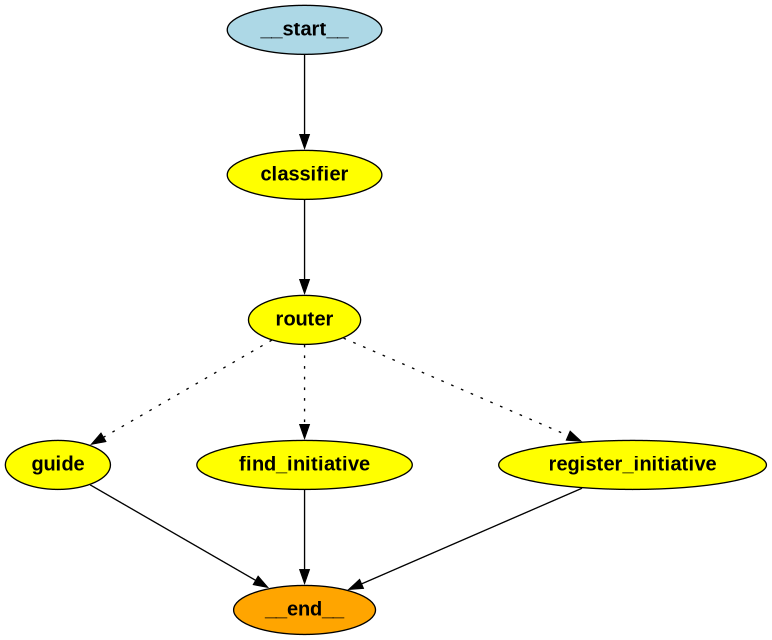
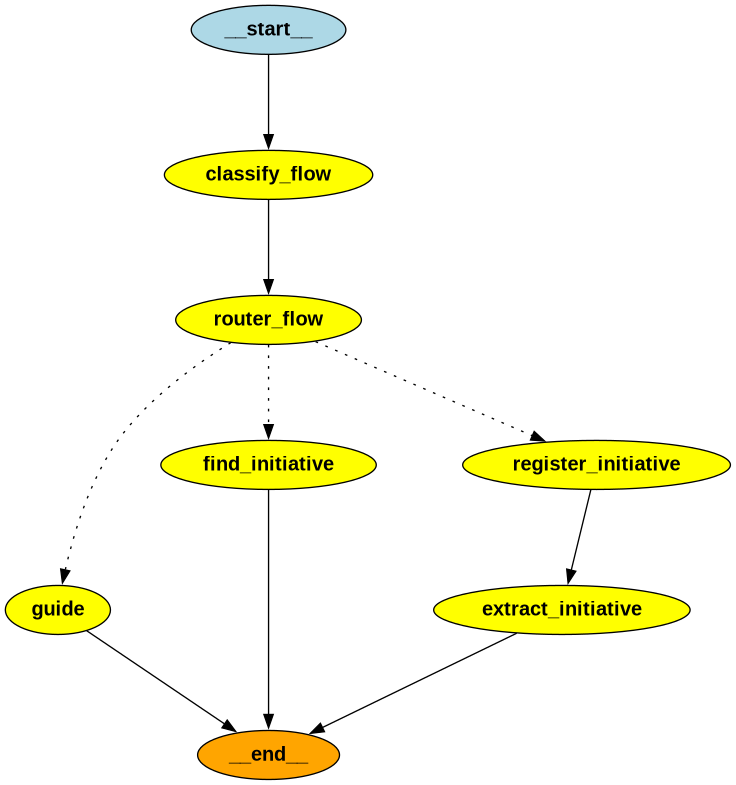
chore: organize prompts structure

diff --git a/agent/src/nodes.py b/agent/src/nodes.py
@@ -1,4 +1,4 @@
-from src.schemas import State, FlowClassifier
+from src.schemas import State, FlowClassifier, Initiative
 from src.llms import default_llm
 
 from langchain_core.messages import AIMessage
@@ -6,25 +6,27 @@ from langchain_core.messages import AIMessage
 import logging
 
 
+PROMPTS_DIR = "prompts"
+
+
 def classify_flow(state: State):
     last_msg = state["messages"][-1]
     classifier_llm = default_llm.with_structured_output(FlowClassifier)
+    flow_type = state.get("flow_type", None)
+
+    # If the user is already in a flow, keep it
+    if flow_type in ["consultar", "registrar"]:
+        return {"flow_type": flow_type}
 
     try:
+        with open(f"{PROMPTS_DIR}/classify_flow.md", "r", encoding="utf-8") as f:
+            prompt_content = f.read()
+
         result = classifier_llm.invoke(
             [
                 {
                     "role": "system",
-                    "content": (
-                        """
-                        Você é um classificador.
-                        Sua tarefa é analisar a mensagem do usuário e o tipo seguindo o formato exigido pelo schema, não retorne nada além do JSON.
-                        Os tipos possíveis são:
-                        - 'direcionar': usuário está buscando direcionamento ou ajuda.
-                        - 'consultar': usuário quer consultar uma iniciativa existente.
-                        - 'registrar': usuário quer registrar uma nova iniciativa.
-                        """
-                    ),
+                    "content": prompt_content,
                 },
                 {"role": "user", "content": last_msg.content},
             ]
@@ -37,7 +39,7 @@ def classify_flow(state: State):
         return {"flow_type": "guide"}
 
 
-def router(state: State):
+def router_flow(state: State):
     flow_type = state.get("flow_type", "direcionar")
 
     if flow_type == "registrar":
@@ -49,25 +51,92 @@ def router(state: State):
 
 
 def node_guide(state: State):
+    with open(f"{PROMPTS_DIR}/guide.md", "r", encoding="utf-8") as f:
+        prompt_content = f.read()
+
     return {
-        "messages": [
-            AIMessage(
-                role="assistant",
-                content="Olá! Como posso ajudar você hoje? Você gostaria de consultar ou registrar uma iniciativa?",
-            )
-        ]
+        "messages": default_llm.invoke(
+            state["messages"]
+            + [
+                {
+                    "role": "system",
+                    "content": prompt_content,
+                }
+            ],
+        )
     }
 
 
 def node_register_initiative(state: State):
+    with open(f"{PROMPTS_DIR}/register_initiative.md", "r", encoding="utf-8") as f:
+        prompt_template = f.read()
+
+    new_initiative = state.get("initiative") or {}
+
+    prompt_content = prompt_template.format(
+        title=getattr(new_initiative, "title", "N/A"),
+        theme=getattr(new_initiative, "theme", "N/A"),
+        description=getattr(new_initiative, "description", "N/A"),
+    )
+
     return {
-        "messages": [
-            AIMessage(
-                role="assistant",
-                content="Vamos registrar uma nova iniciativa. Por favor, forneça os detalhes.",
-            )
-        ]
+        "messages": default_llm.invoke(
+            state["messages"]
+            + [
+                {
+                    "role": "system",
+                    "content": prompt_content,
+                }
+            ],
+        )
     }
+
+
+def node_extract_initiative(state: State):
+    last_msg = state["messages"][-1]
+    classifier_llm = default_llm.with_structured_output(Initiative)
+    new_initiative = state.get("initiative")
+
+    if new_initiative is None:
+        new_initiative = Initiative(
+            title=None, responsible=None, theme=None, description=None
+        )
+
+    elif isinstance(new_initiative, dict):
+        new_initiative = Initiative(**new_initiative)
+
+    try:
+        with open(f"{PROMPTS_DIR}/extract_initiative.md", "r", encoding="utf-8") as f:
+            prompt_template = f.read()
+
+        prompt_content = prompt_template.format(
+            title=new_initiative.title,
+            theme=new_initiative.theme,
+            description=new_initiative.description,
+        )
+
+        result = classifier_llm.invoke(
+            [
+                {
+                    "role": "system",
+                    "content": prompt_content,
+                },
+                {"role": "user", "content": last_msg.content},
+            ]
+        )
+
+        # Merge with previous initiative, preferring new values if present
+        updated_initiative = Initiative(
+            title=getattr(result, "title", None) or new_initiative.title,
+            theme=getattr(result, "theme", None) or new_initiative.theme,
+            description=getattr(result, "description", None)
+            or new_initiative.description,
+        )
+        print(f"Updated Initiative: {updated_initiative.dict()}")
+        return {"initiative": updated_initiative}
+    except Exception as e:
+        logging.error(f"Failed to classify initiative: {e}")
+        return {"initiative": new_initiative}
 
 
 def node_find_initiative(state: State):

diff --git a/agent/src/chain.py b/agent/src/chain.py
@@ -1,6 +1,7 @@
 from src.nodes import (
     classify_flow,
-    router,
+    node_extract_initiative,
+    router_flow,
     node_guide,
     node_find_initiative,
     node_register_initiative,
@@ -12,16 +13,17 @@ from langgraph.graph import StateGraph, START, END
 
 workflow = StateGraph(State)
 
-workflow.add_node("classifier", classify_flow)
-workflow.add_node("router", router)
+workflow.add_node("classify_flow", classify_flow)
+workflow.add_node("router_flow", router_flow)
 workflow.add_node("guide", node_guide)
 workflow.add_node("find_initiative", node_find_initiative)
 workflow.add_node("register_initiative", node_register_initiative)
+workflow.add_node("extract_initiative", node_extract_initiative)
 
-workflow.add_edge(START, "classifier")
-workflow.add_edge("classifier", "router")
+workflow.add_edge(START, "classify_flow")
+workflow.add_edge("classify_flow", "router_flow")
 workflow.add_conditional_edges(
-    "router",
+    "router_flow",
     lambda state: state.get("next"),
     {
         "guide": "guide",
@@ -31,7 +33,8 @@ workflow.add_conditional_edges(
 )
 workflow.add_edge("guide", END)
 workflow.add_edge("find_initiative", END)
-workflow.add_edge("register_initiative", END)
+workflow.add_edge("register_initiative", "extract_initiative")
+workflow.add_edge("extract_initiative", END)
 
 chain = workflow.compile()
 

diff --git a/agent/src/schemas.py b/agent/src/schemas.py
@@ -10,6 +10,17 @@ class FlowClassifier(BaseModel):
     )
 
 
+class Initiative(BaseModel):
+    title: str | None = Field(None, description="Título da iniciativa.")
+    context: str | None = Field(None, description="Contexto detalhado da iniciativa.")
+    theme: str | None = Field(None, description="Tema da iniciativa.")
+    deliverable: str | None = Field(None, description="Entregável da iniciativa.")
+    availation_criteria: str | None = Field(
+        None, description="Critérios de avaliação da iniciativa."
+    )
+
+
 class State(TypedDict):
     messages: Annotated[list, add_messages]
+    initiative: Initiative | None
     flow_type: str | None

diff --git a/agent/src/main.py b/agent/src/main.py
@@ -1,5 +1,6 @@
 from src.chain import chain
 from src.config import logger
+from src.schemas import State
 
 from fastapi import FastAPI, WebSocket
 from fastapi.staticfiles import StaticFiles
@@ -14,7 +15,7 @@ logger.setup_logging()
 @app.websocket("/ws/v1/agent")
 async def websocket_endpoint(websocket: WebSocket):
     await websocket.accept()
-    state = {"messages": [], "flow_type": None}
+    state: State = {"messages": [], "flow_type": None}
 
     while True:
         data = await websocket.receive_text()

diff --git a/agent/prompts/guide.md b/agent/prompts/guide.md
@@ -1,0 +1,22 @@
+<Contexto>
+    Você é um agente especializado em ajudar o usuário nos temas abaixo:
+        - Registrar iniciativas
+        - Buscar iniciativas
+
+    Caso ele não tenha mais dúvidas, finalize a conversa cordialmente.
+</Contexto>
+
+<Exemplo id='1'>
+    User: Oi
+    Agent: Olá, eu sou o Init Agent! Assistente especializado em captar ideias inovadoras, como posso estar te ajudando hoje?
+</Exemplo>
+
+<Exemplo id='2'>
+    User: O que você sabe fazer?
+    Agent: Eu posso ajudar você a registrar novas iniciativas ou a encontrar iniciativas existentes.
+</Exemplo>
+
+<Exemplo id='3'>
+    User: Não tenho mais dúvidas
+    Agent: Obrigado por utilizar nosso serviço! Se precisar de mais alguma coisa, é só chamar.
+</Exemplo>

diff --git a/agent/prompts/extract_initiative.md b/agent/prompts/extract_initiative.md
@@ -1,0 +1,22 @@
+Você é um classificador.
+
+Sua tarefa é analisar a mensagem do usuário e identificar os campos da iniciativa.
+Retorne apenas um JSON com os campos da iniciativa.
+
+Os campos são:
+  - title: Título da iniciativa.
+  - theme: Tema da iniciativa.
+  - description: Descrição detalhada da iniciativa.
+
+Campos já preenchidos devem ser mantidos.
+title: {title}
+theme: {theme}
+description: {description}
+
+Se algum campo não for mencionado, deixe como None.
+Exemplo de resposta:
+{
+    "title": "Título da Iniciativa",
+    "theme": "Tema da Iniciativa",
+    "description": "Descrição opcional da iniciativa"
+}

diff --git a/agent/prompts/classify_flow.md b/agent/prompts/classify_flow.md
@@ -1,0 +1,8 @@
+Você é um classificador.
+
+Sua tarefa é analisar a mensagem do usuário e o tipo seguindo o formato exigido pelo schema, não retorne nada além do JSON.
+
+Os tipos possíveis são:
+  - 'direcionar': usuário está buscando direcionamento ou ajuda.
+  - 'consultar': usuário quer consultar uma iniciativa existente.
+  - 'registrar': usuário quer registrar uma nova iniciativa.

diff --git a/agent/prompts/register_initiative.md b/agent/prompts/register_initiative.md
@@ -1,0 +1,6 @@
+Você é um agente especializado em ajudar o usuário a registrar iniciativas.
+
+Questione o usuário de forma iterativa sobre os campos não preenchidos abaixo:
+    - Título: {title}
+    - Tema: {theme}
+    - Descrição: {description}
